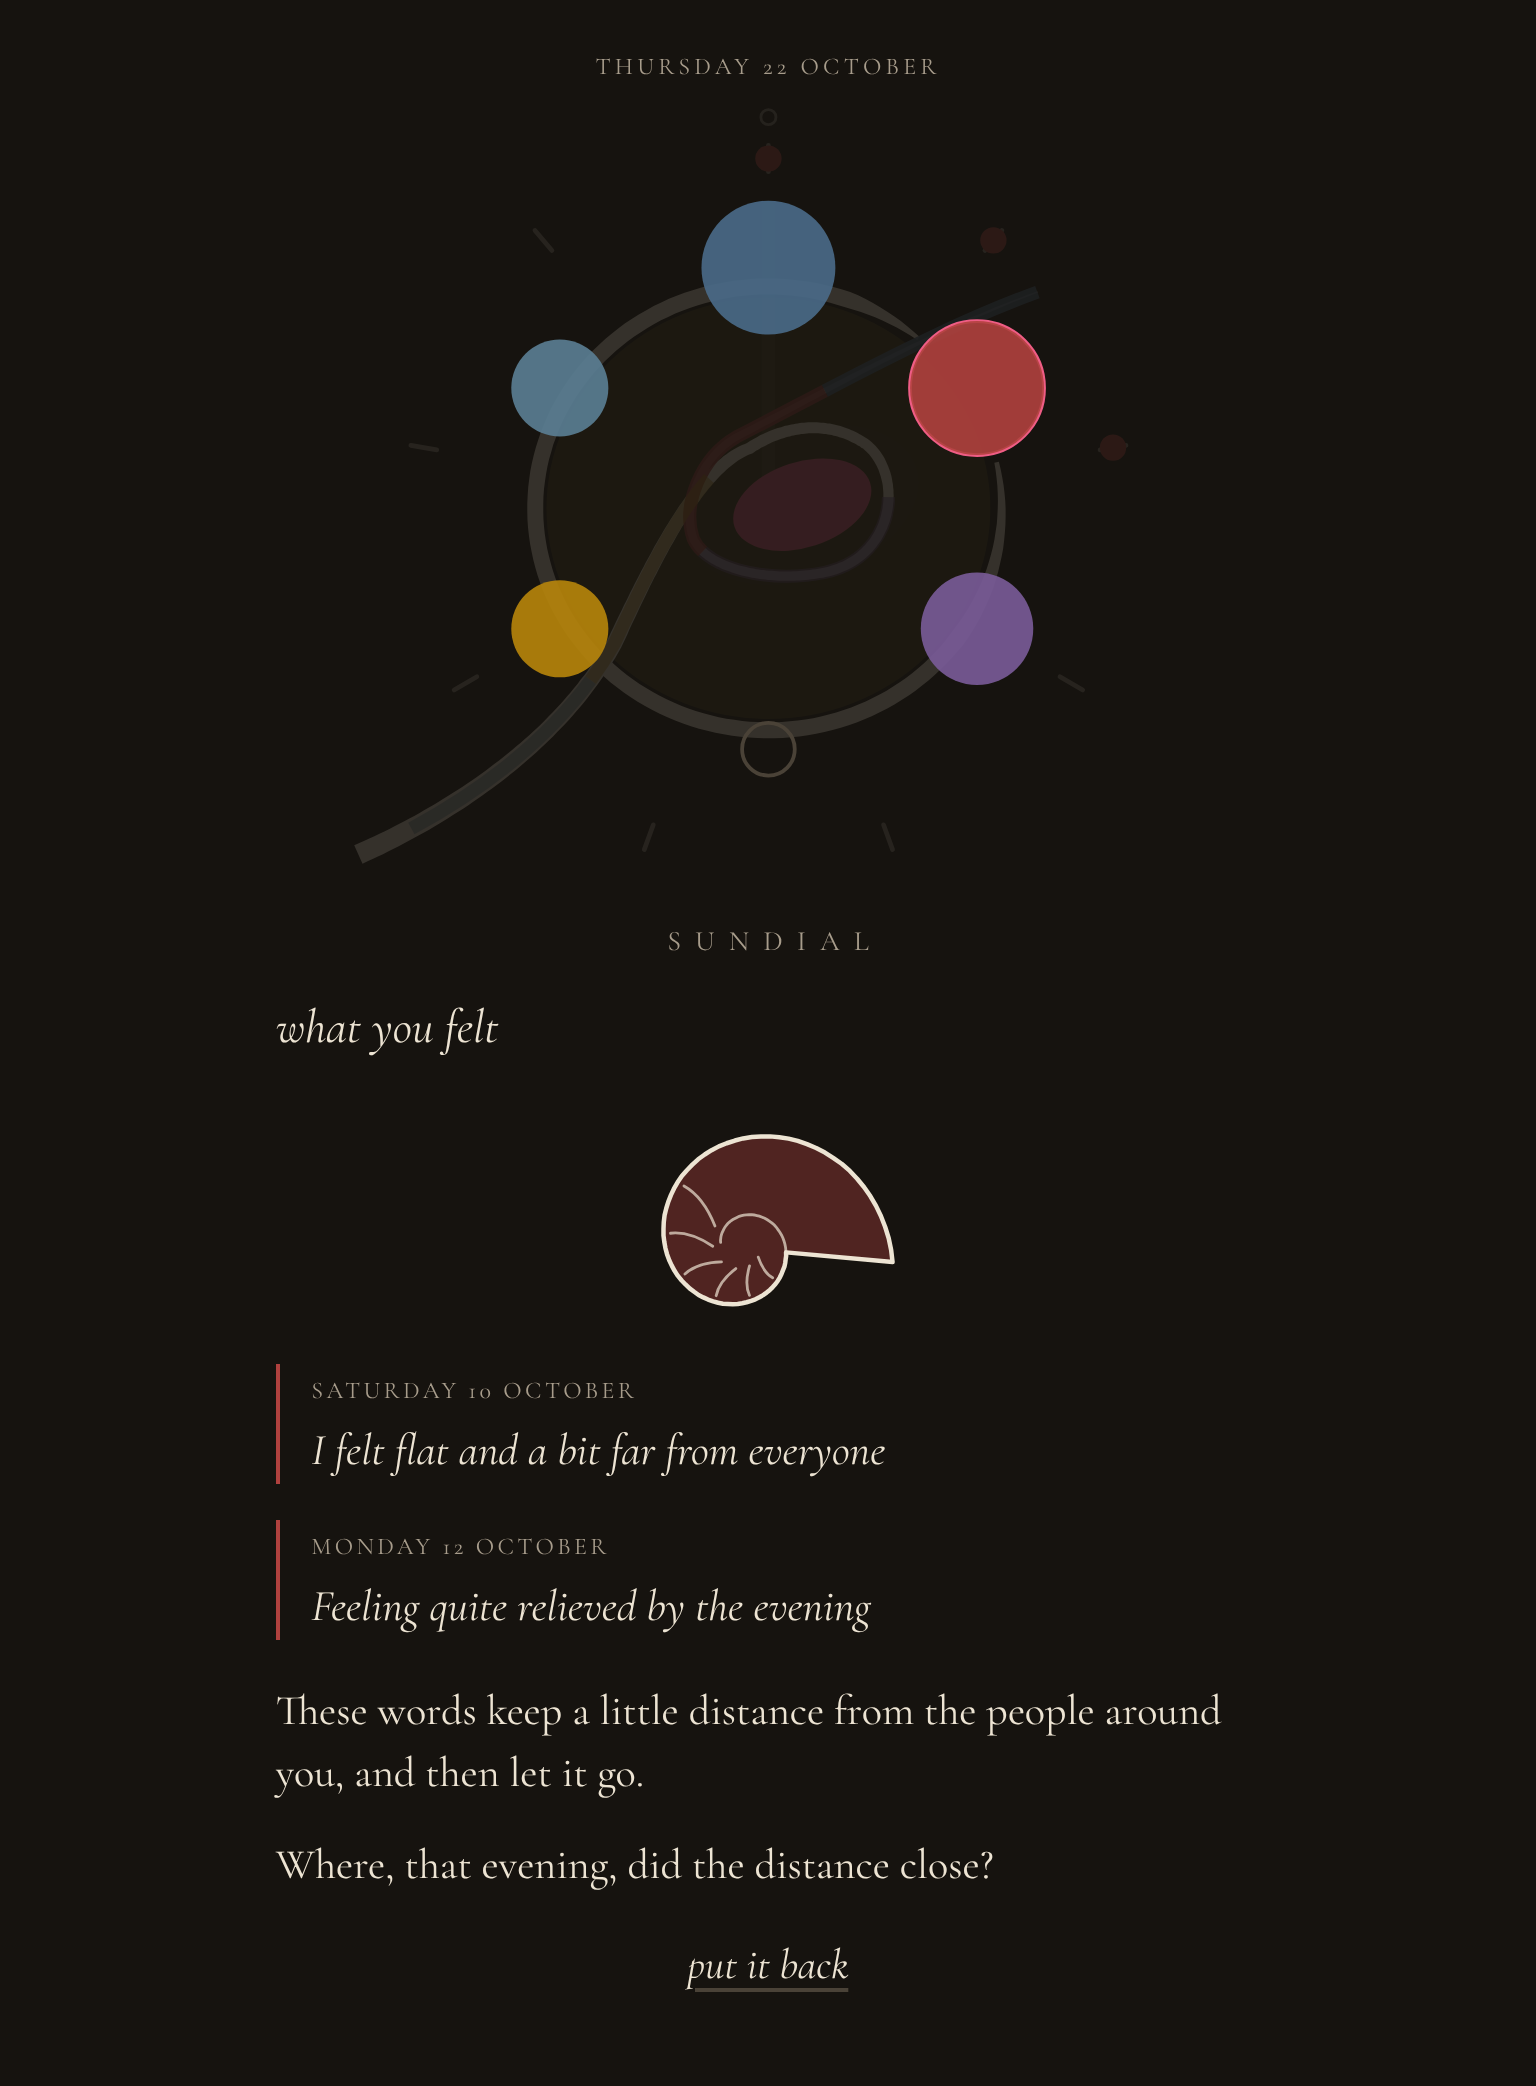
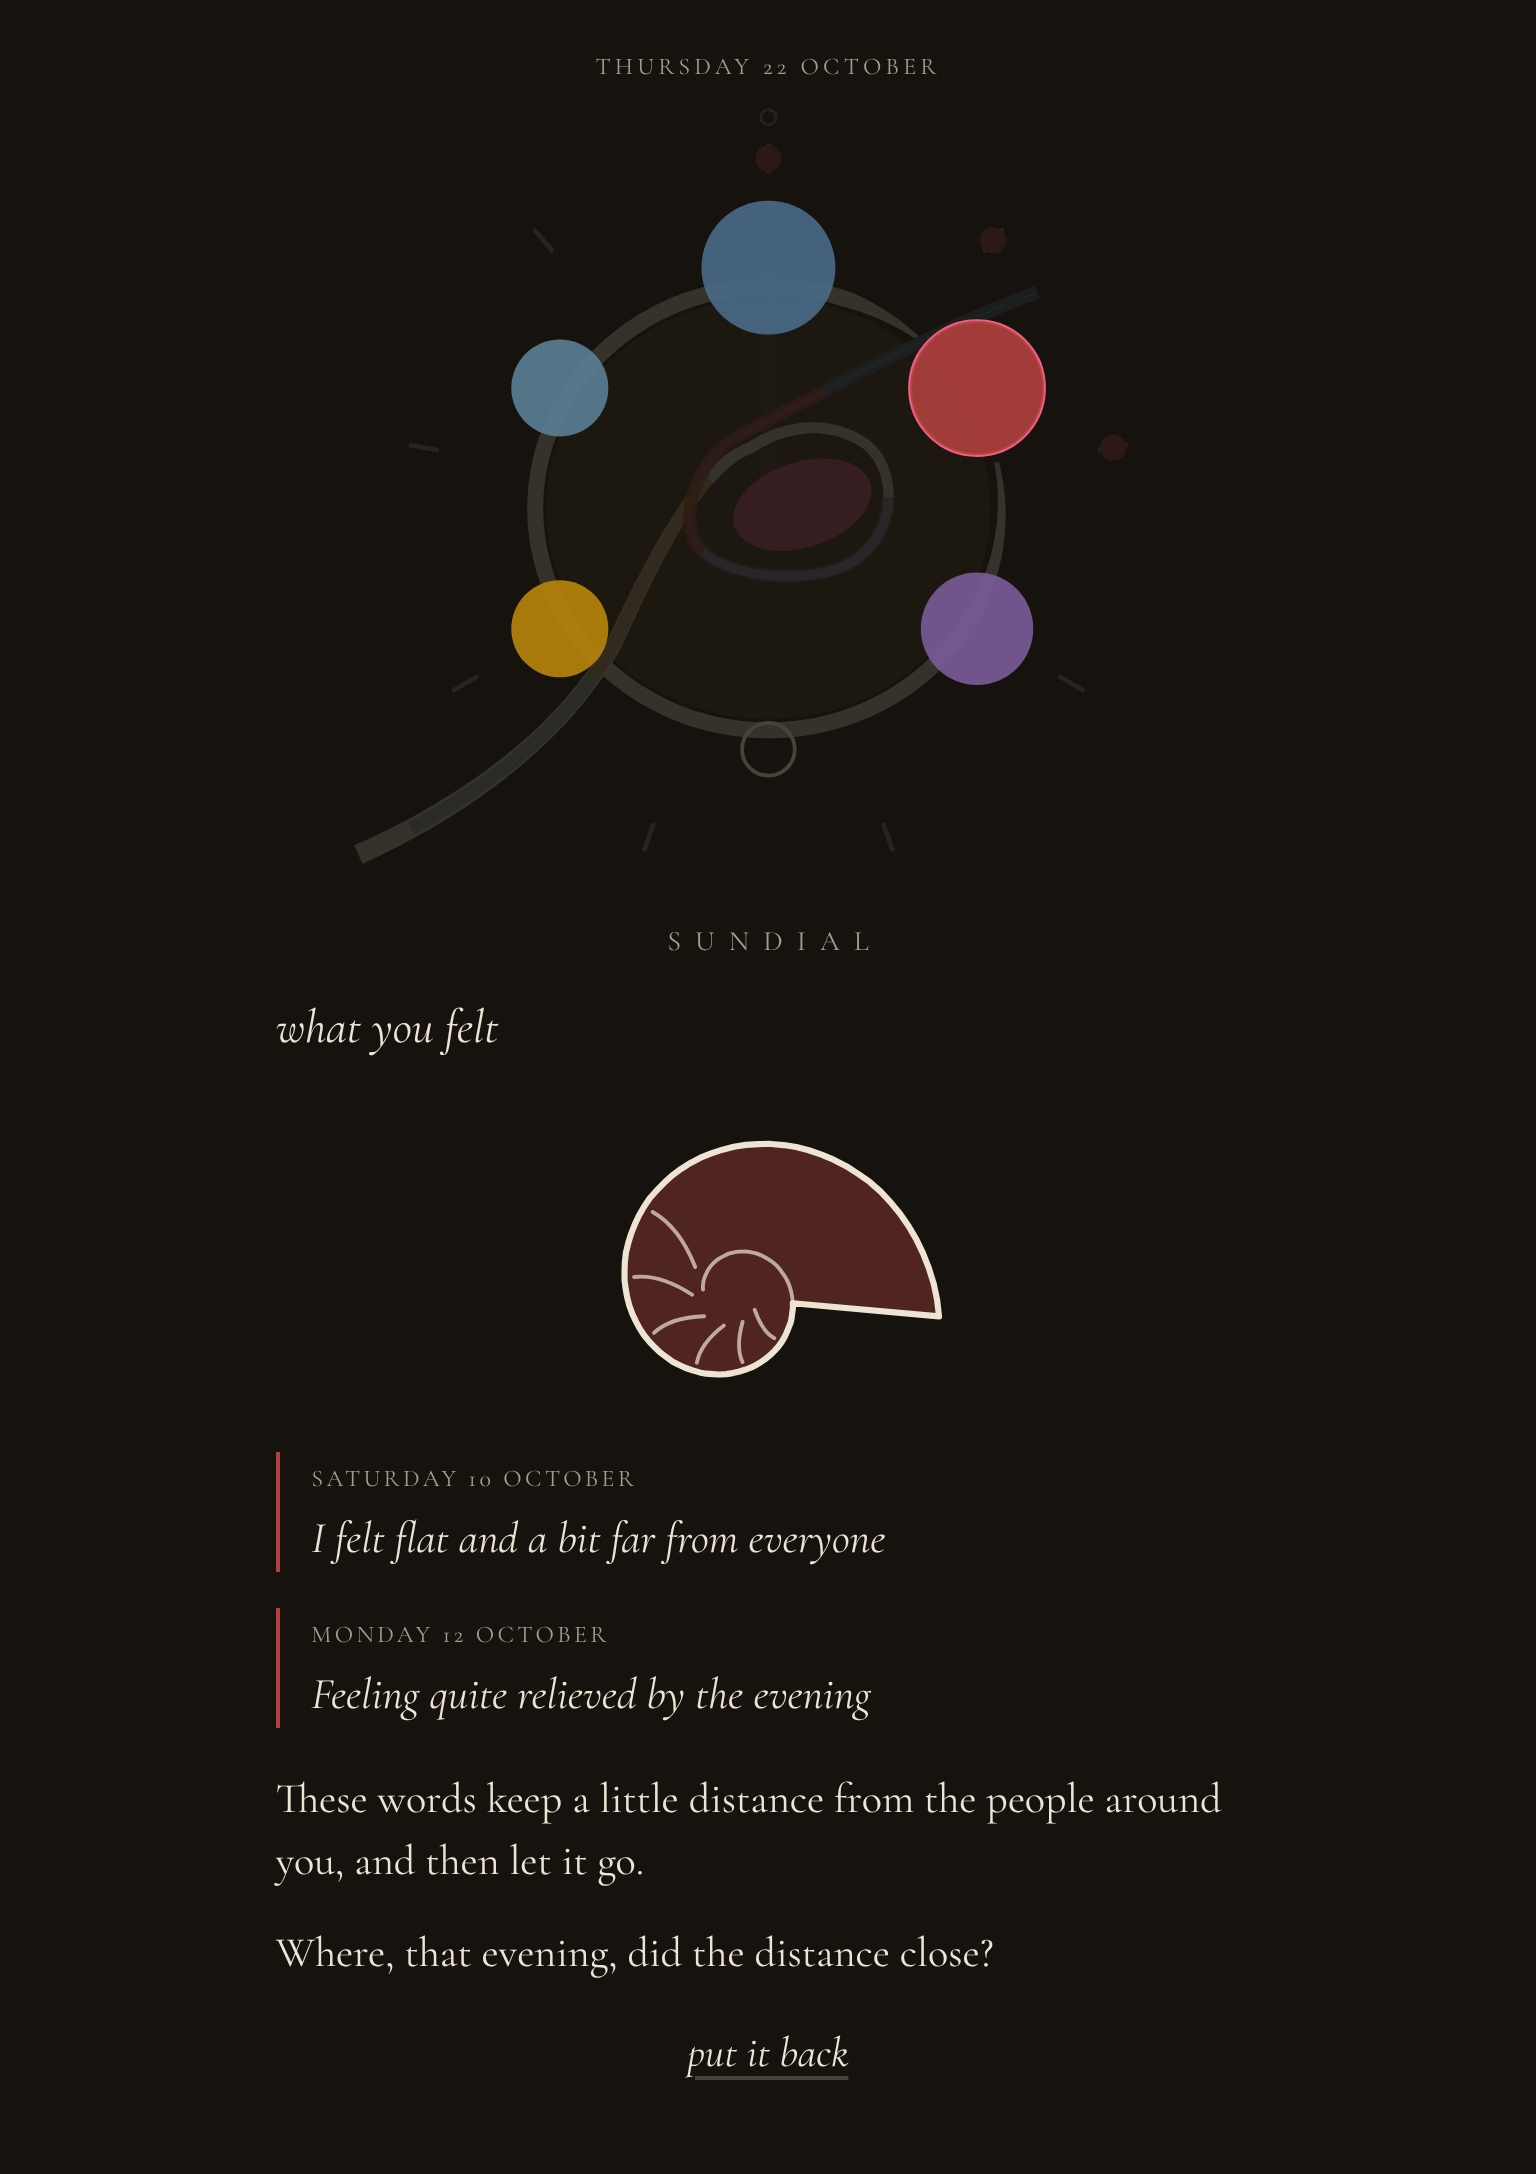
M4.2: words come out of the shell; larger, quicker, no wait
After Matthew's first listen: the shell was small, his words faded in
beneath it rather than coming from it, and it took too long ("The
impact must be mesmerizing. Like watching pilot whales.").

- The shell is larger (10rem) and tilts further to the ear.
- The reading is begun as a filled pool is tapped, so it is ready when
  the shell is lifted; if not, rings open out from the shell until it
  comes.
- His words come out of the shell one after another, each rising from
  its mouth in an arc to its place (Web Animations), overlapping:
  faint and blurred beneath the words already there, sharp only as
  they surface. What it hears and the question settle in after; the
  sea fades as the last words land. About four seconds in all, against
  more than seven.

Checks: M4.1 29 (the call begun on the pool's tap, the shell's size,
the words rising from the shell in turn, rings while Claude is slow,
reduced motion with no animation), M5 31, M4 24, M3 18, M2 matrix 16,
M1 34.

Claude-Session: https://claude.ai/code/session_018PPdCn7BnYvdkungaLbvbi

diff --git a/sundial.html b/sundial.html
@@ -122,10 +122,11 @@
   /* The shell that listens (6.8): it rocks a little where it lies; held to
      the ear it lifts and tilts; the words it hears surface one by one. */
   .sd-listen {
+    position: relative;
     display: block;
-    width: 7.5rem;
-    height: 7.5rem;
-    margin: 0.6rem auto 0;
+    width: 10rem;
+    height: 10rem;
+    margin: 0.4rem auto 0.6rem;
     padding: 0.4rem;
     color: var(--ink);
     background: none;
@@ -153,8 +154,29 @@
     to { transform: rotate(4deg); }
   }
   @keyframes sd-ear {
-    from { transform: translateY(-0.4rem) rotate(-24deg) scale(1.12); }
-    to { transform: translateY(-0.6rem) rotate(-19deg) scale(1.15); }
+    from { transform: translateY(-0.6rem) rotate(-34deg) scale(1.22); }
+    to { transform: translateY(-0.9rem) rotate(-27deg) scale(1.28); }
+  }
+  /* While it listens and nothing has come yet, rings open out from it. */
+  .sd-listen::before,
+  .sd-listen::after {
+    content: '';
+    position: absolute;
+    inset: 16%;
+    border: 1.5px solid var(--frame);
+    border-radius: 50%;
+    opacity: 0;
+    pointer-events: none;
+  }
+  .sd-listen.waiting::before {
+    animation: sd-ripple 2.4s ease-out infinite;
+  }
+  .sd-listen.waiting::after {
+    animation: sd-ripple 2.4s ease-out 1.2s infinite;
+  }
+  @keyframes sd-ripple {
+    from { transform: scale(0.6); opacity: 0.7; }
+    to { transform: scale(1.8); opacity: 0; }
   }
   .sd-listen:focus-visible {
     outline: 2px solid var(--crimson);
@@ -164,6 +186,7 @@
     margin: 0.4rem 0 0;
   }
   .sd-heard-line {
+    position: relative;
     margin: 0 0 1rem;
     padding: 0 0 0 0.9rem;
     border-left: 2px solid var(--hue, var(--frame));
@@ -191,15 +214,6 @@
     line-height: 1.5;
     margin: 0.8rem 0 0.6rem;
   }
-  .sd-heard .surface {
-    opacity: 0;
-    animation: sd-surface 1.6s ease forwards;
-    animation-delay: calc(var(--k, 0) * 1.4s + 0.2s);
-  }
-  @keyframes sd-surface {
-    from { opacity: 0; transform: translateY(0.4rem); }
-    to { opacity: 1; transform: none; }
-  }
   .sd-put-back {
     display: block;
     margin: 0 auto;
@@ -224,9 +238,9 @@
     .sd-listen.lifted .sd-listen-shell {
       transform: rotate(-20deg) scale(1.1);
     }
-    .sd-heard .surface {
+    .sd-listen.waiting::before,
+    .sd-listen.waiting::after {
       animation: none;
-      opacity: 1;
     }
   }
   .sd-dial[role="button"]:focus-visible {
@@ -703,9 +717,9 @@
     <button type="button" class="sd-listen" id="listen" aria-pressed="false" aria-label="Listen to the shell" hidden><svg id="shell-art" viewBox="-60 -60 120 120" aria-hidden="true" focusable="false"></svg></button>
     <div class="sd-heard" id="heard" aria-live="polite" hidden>
       <div id="heard-lines"></div>
-      <p class="sd-hears surface" id="hears"></p>
-      <p class="sd-listen-question surface" id="listen-question"></p>
-      <button type="button" class="sd-put-back surface" id="put-back">put it back</button>
+      <p class="sd-hears" id="hears"></p>
+      <p class="sd-listen-question" id="listen-question"></p>
+      <button type="button" class="sd-put-back" id="put-back">put it back</button>
     </div>
   </section>
 
@@ -824,7 +838,7 @@
    drawn as absence, and the words they spoke go back into the box. */
 (function () {
   var MODEL = 'claude-sonnet-5-5';          // a current Sonnet
-  var VERSION = 'Sundial M4.1 · 22 October 2026';
+  var VERSION = 'Sundial M4.2 · 22 October 2026';
   var TURNS_A_DAY = 40;
   var KEY = 'sundial.key', TURNS = 'sundial.turns', NAME = 'sundial.name';
   // The roster's steward (plan 6.6): before the roster is first sealed, only
@@ -1197,7 +1211,7 @@
     $('pool-question').hidden = true;
     $('listen').hidden = false;
     Shell.draw($('shell-art'), i, pool.hue);
-    readWays();
+    readingFor(i);
   }
 
   // A day's own words, as it was kept: its title, its lines and its
@@ -1299,7 +1313,7 @@
   // three ways of listening; the reading is kept here until a new day comes
   // to rest in that pool. Every passage it hears must be the person's own
   // words exactly, or it is dropped.
-  var HEARD = 'sundial.heard', listening = false, listenTurn = 0, quietTimer = null;
+  var HEARD = 'sundial.heard', listening = false, listenTurn = 0, quietTimer = null, pending = {};
   function inPool(i) {
     return days.filter(function (d) { return Mark.poolOf(d) === i + 1; }).slice(-12);
   }
@@ -1336,20 +1350,15 @@
       return r;
     });
   }
-  $('listen').addEventListener('click', function () {
-    if (listening) { putBack(); return; }
-    if (poolNow < 0) return;
-    var i = poolNow, list = inPool(i), key = listenKey(list), was = keptHere(HEARD)[i];
-    var ready = was && was.key === key ? was.reading : null;
-    if (!ready && !stored(KEY)) { openCard($('listen')); return; }
-    if (!ready && turnsToday() >= TURNS_A_DAY) return;
-    var turn = ++listenTurn;
-    listening = true;
-    $('listen').classList.add('lifted');
-    $('listen').setAttribute('aria-pressed', 'true');
-    clearTimeout(quietTimer);
-    Shell.listen();
-    var reading = ready ? Promise.resolve(ready) : readWays().then(function (ways) {
+  // A pool's reading: kept, already on its way, or begun now. It is begun
+  // as soon as a filled pool is tapped, so the shell is ready by the time
+  // it is lifted to the ear.
+  function readingFor(i) {
+    var list = inPool(i), key = listenKey(list), was = keptHere(HEARD)[i];
+    if (was && was.key === key) return { list: list, ready: was.reading };
+    if (pending[i] && pending[i].key === key) return { list: list, promise: pending[i].promise };
+    if (!stored(KEY) || turnsToday() >= TURNS_A_DAY) return { list: list };
+    var promise = readWays().then(function (ways) {
       var here = ways && ways[i];
       if (!here || !here.length) throw {};
       countTurn();
@@ -1360,42 +1369,90 @@
       store(HEARD, JSON.stringify(all));
       return r;
     });
-    // The shell reaches the ear before anything surfaces, even when the
-    // reading is already at hand.
-    Promise.all([reading, new Promise(function (ok) { setTimeout(ok, 1600); })]).then(function (both) {
-      if (turn === listenTurn && listening) surface(both[0], list, i);
+    pending[i] = { key: key, promise: promise };
+    promise.then(null, function () {
+      if (pending[i] && pending[i].promise === promise) delete pending[i];
+    });
+    return { list: list, promise: promise };
+  }
+  $('listen').addEventListener('click', function () {
+    if (listening) { putBack(); return; }
+    if (poolNow < 0) return;
+    var i = poolNow, got = readingFor(i);
+    if (!got.ready && !got.promise) {
+      if (!stored(KEY)) openCard($('listen'));
+      return;
+    }
+    var turn = ++listenTurn;
+    listening = true;
+    $('listen').classList.add('lifted');
+    $('listen').setAttribute('aria-pressed', 'true');
+    clearTimeout(quietTimer);
+    Shell.listen();
+    var reading = got.ready ? Promise.resolve(got.ready) : got.promise;
+    // A moment for the shell to reach the ear; then, if the reading has
+    // not come, rings open out from it until it does.
+    var waiting = setTimeout(function () { if (turn === listenTurn) $('listen').classList.add('waiting'); }, 700);
+    Promise.all([reading, new Promise(function (ok) { setTimeout(ok, 700); })]).then(function (both) {
+      clearTimeout(waiting);
+      $('listen').classList.remove('waiting');
+      if (turn === listenTurn && listening) surface(both[0], got.list, i);
     }).catch(function (e) {
+      clearTimeout(waiting);
+      $('listen').classList.remove('waiting');
       if (turn !== listenTurn) return;
       putBack();
       if (e && e.key) openCard($('listen'));
     });
   });
-  // The words surface one by one: each passage it heard with its day, then
-  // what it hears, then the question. The sea quietens after.
+  // The person's own words come out of the shell one after another, each
+  // rising from its mouth in a slow arc to its place, overlapping like
+  // backs breaking the water: faint and blurred beneath the words already
+  // there, clear only as they surface. Then what it hears, and the
+  // question, settle in beneath. The sea quietens as the last words land.
+  var STILL = window.matchMedia ? window.matchMedia('(prefers-reduced-motion: reduce)') : { matches: false };
+  var RISE = 2600, NEXT = 900;
   function surface(r, list, i) {
-    var box = $('heard-lines'), k = 0;
+    var box = $('heard-lines'), under = 9;
     box.textContent = '';
-    r.heard.forEach(function (h) {
+    var figs = r.heard.map(function (h) {
       var day = list.filter(function (d) { return flat(wordsOf(d)).indexOf(flat(h)) >= 0; })[0];
       var fig = document.createElement('figure'), cap = document.createElement('figcaption'), q = document.createElement('blockquote');
-      fig.className = 'sd-heard-line surface';
+      fig.className = 'sd-heard-line';
       fig.style.setProperty('--hue', Mark.POOLS[i].hue);
-      fig.style.setProperty('--k', k++);
+      fig.style.zIndex = String(under--);
       cap.textContent = day ? dateWords(Days.dateOf(day.address)) : '';
       q.textContent = h;
       fig.appendChild(cap);
       fig.appendChild(q);
       box.appendChild(fig);
+      return fig;
     });
     $('hears').textContent = r.hears;
     $('hears').hidden = !r.hears;
-    $('hears').style.setProperty('--k', k++);
     $('listen-question').textContent = r.question;
     $('listen-question').hidden = !r.question;
-    $('listen-question').style.setProperty('--k', k++);
-    $('put-back').style.setProperty('--k', k);
     $('heard').hidden = false;
-    quietTimer = setTimeout(function () { Shell.hush(3); }, (k * 1.4 + 2) * 1000);
+    var still = STILL.matches || !document.body.animate;
+    var from = $('shell-art').getBoundingClientRect();
+    figs.forEach(function (fig, k) {
+      if (still) return;
+      var to = fig.getBoundingClientRect();
+      var dx = from.left + from.width / 2 - (to.left + to.width / 2), dy = from.top + from.height * 0.45 - (to.top + to.height / 2);
+      var sway = (k % 2 ? 1 : -1) * (36 + 10 * k);
+      fig.animate([
+        { transform: 'translate(' + dx + 'px,' + dy + 'px) scale(0.12)', opacity: 0, filter: 'blur(4px)' },
+        { transform: 'translate(' + (dx * 0.45 + sway) + 'px,' + (dy * 0.5 - 22) + 'px) scale(0.75)', opacity: 0.3, filter: 'blur(2.5px)', offset: 0.55 },
+        { transform: 'none', opacity: 1, filter: 'blur(0)' }
+      ], { duration: RISE, delay: k * NEXT, easing: 'cubic-bezier(.3,.6,.25,1)', fill: 'backwards' });
+    });
+    var settle = figs.length ? (figs.length - 1) * NEXT + RISE * 0.7 : 0;
+    ['hears', 'listen-question', 'put-back'].forEach(function (id, k) {
+      if (still) return;
+      $(id).animate([{ opacity: 0, transform: 'translateY(0.4rem)' }, { opacity: 1, transform: 'none' }],
+        { duration: 1400, delay: settle + k * 500, easing: 'ease-out', fill: 'backwards' });
+    });
+    quietTimer = setTimeout(function () { Shell.hush(2.5); }, settle + 1600);
   }
   function putBack(quick) {
     var was = listening;
@@ -1403,6 +1460,7 @@
     listening = false;
     clearTimeout(quietTimer);
     $('listen').classList.remove('lifted');
+    $('listen').classList.remove('waiting');
     $('listen').setAttribute('aria-pressed', 'false');
     $('heard').hidden = true;
     Shell.hush(quick ? 0.4 : 1.6);
